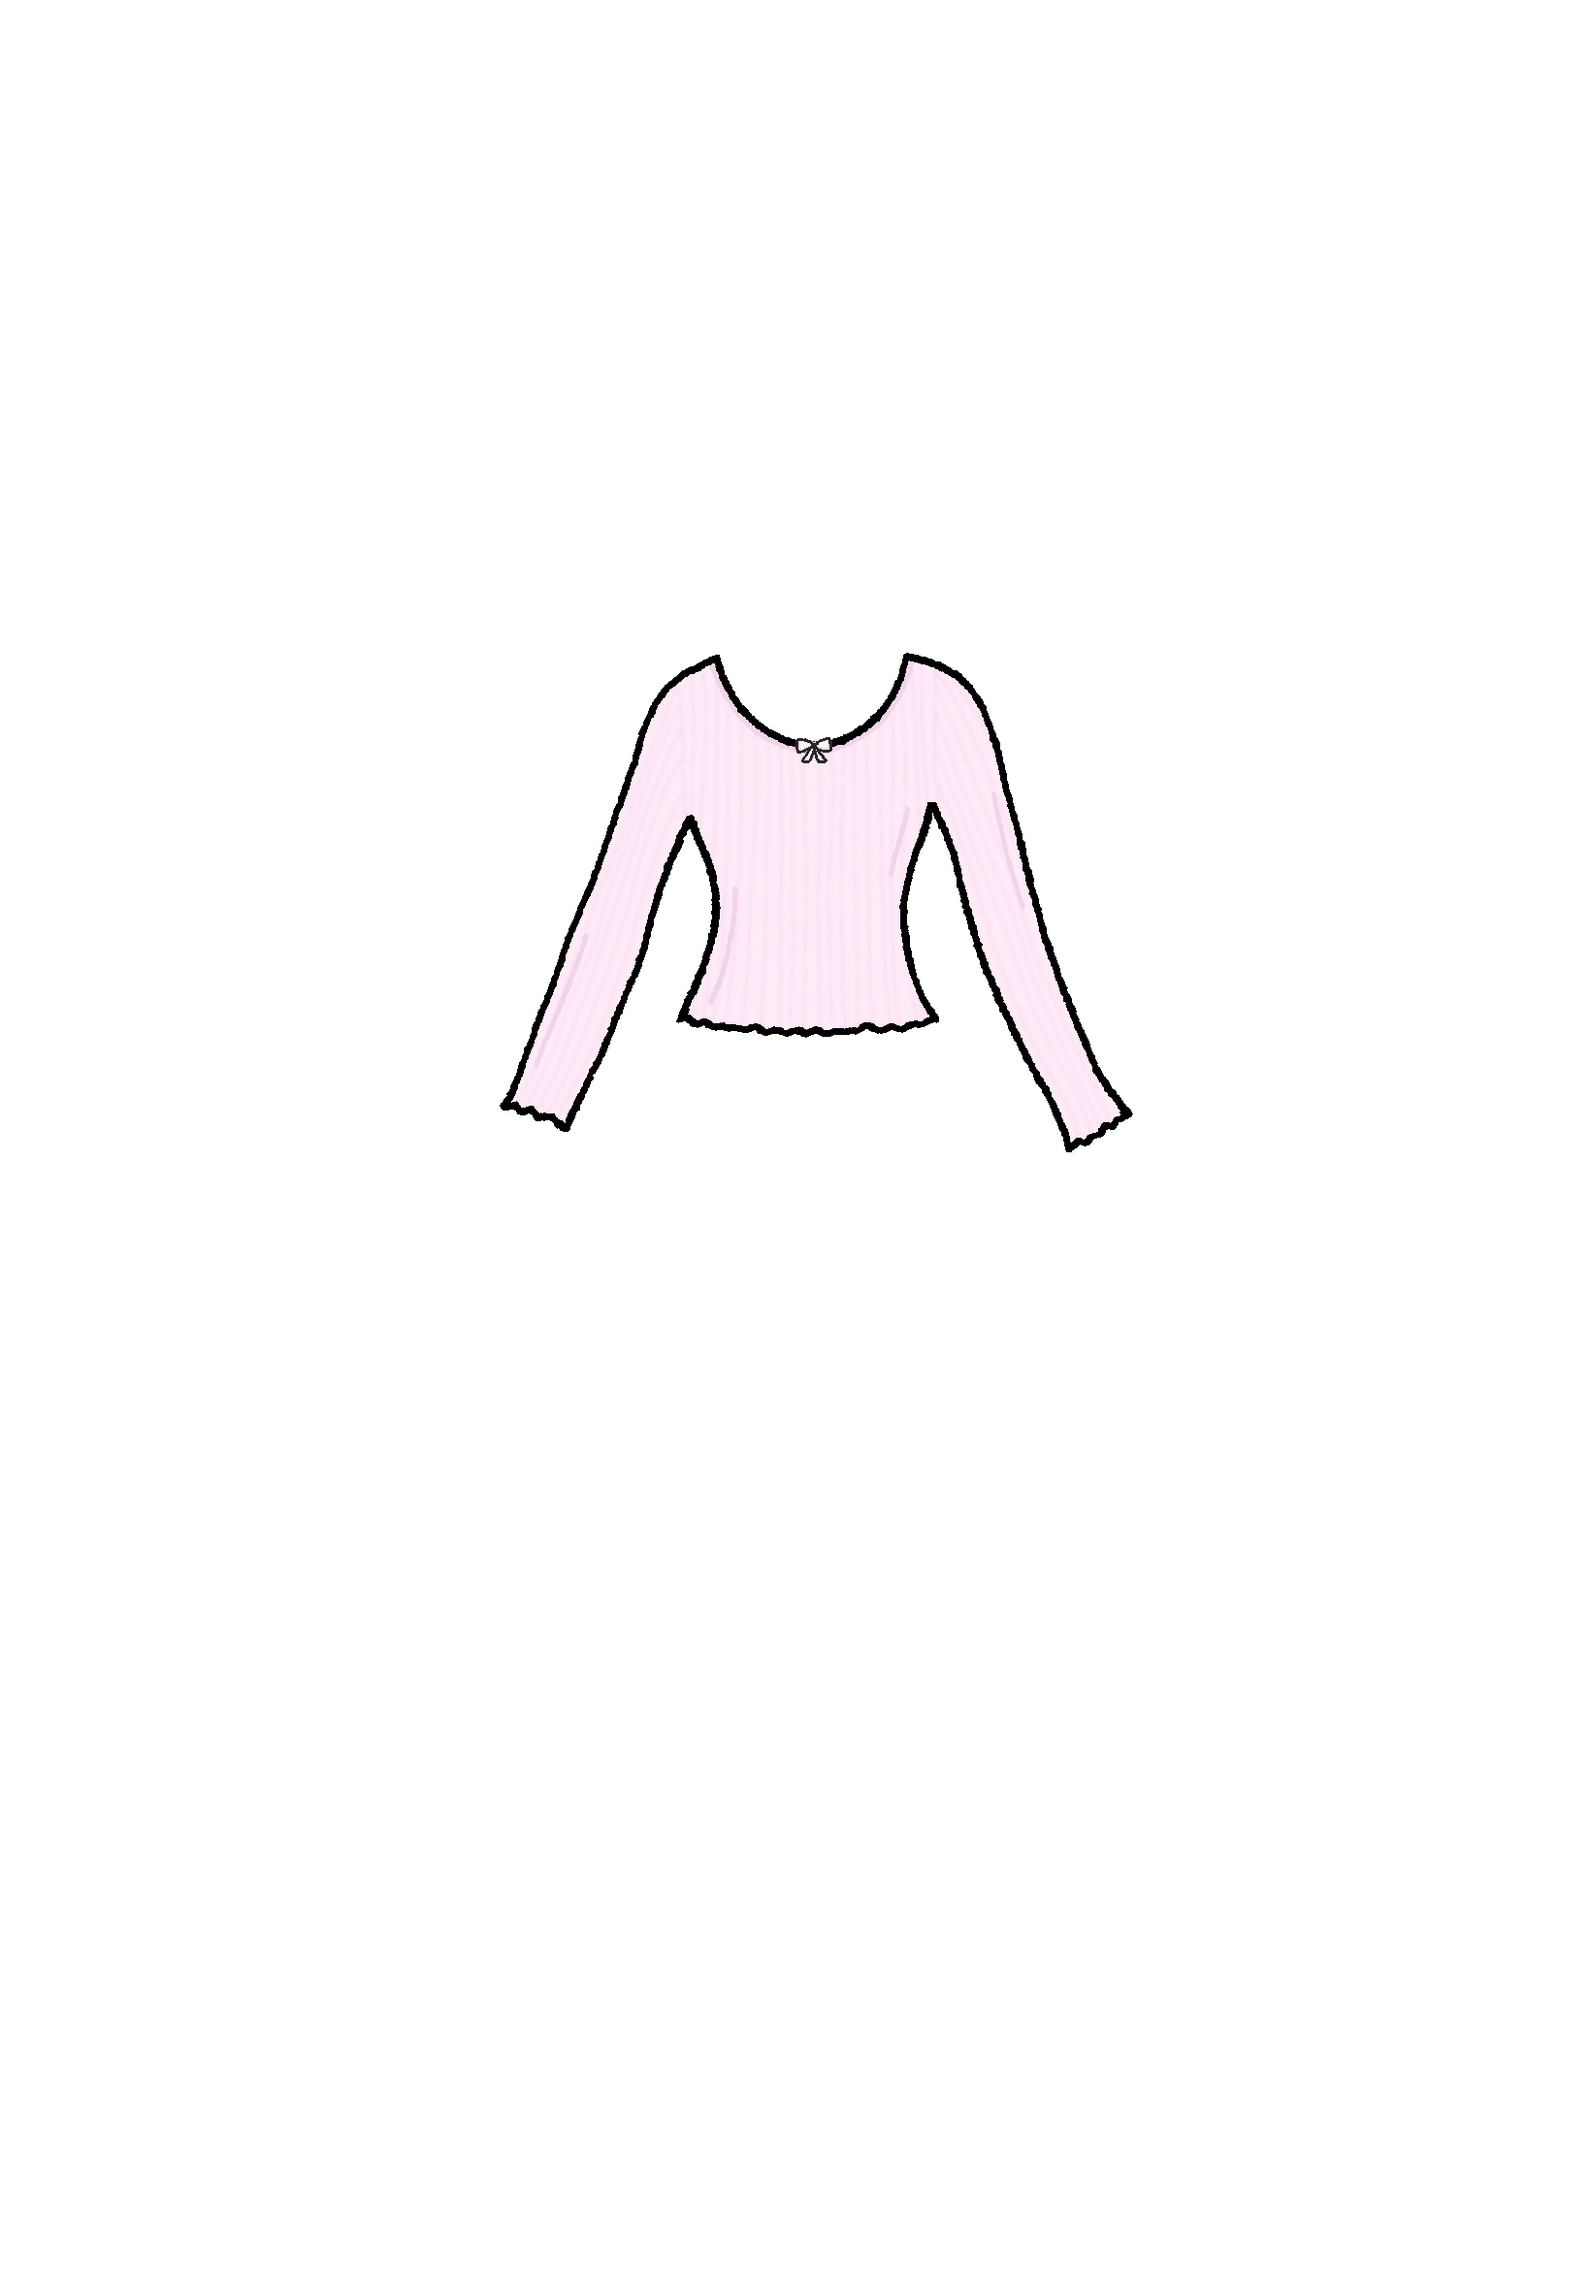
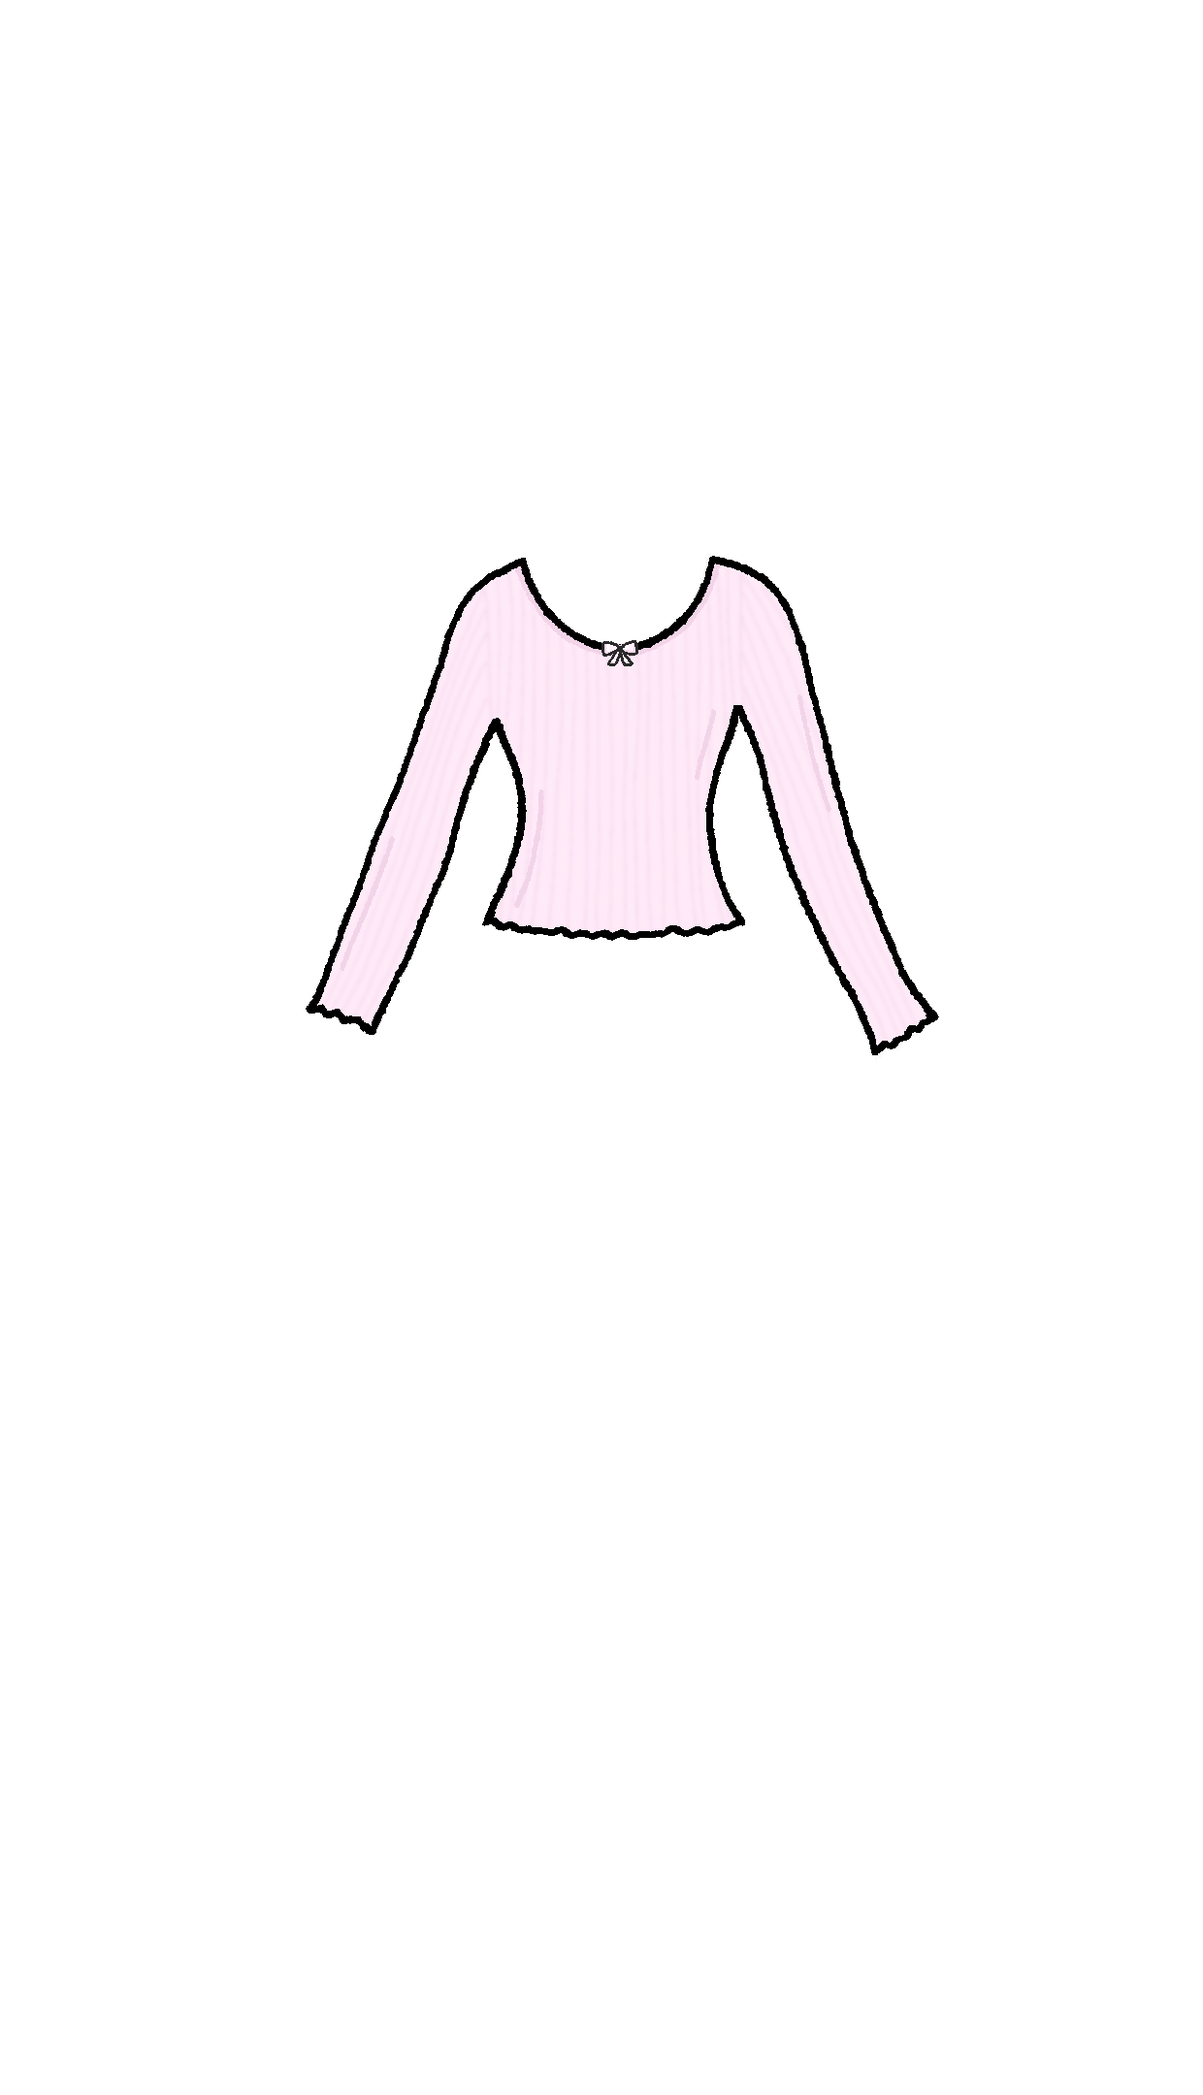
Cropped images

Changed region(s): [[0.2452, 0.2481, 0.7968, 0.4963]]

diff --git a/outfit_planner/index.html b/outfit_planner/index.html
@@ -142,7 +142,7 @@
   .mannequin-stage {
     position: relative;
     height: min(520px, calc(100vh - 220px));
-    aspect-ratio: 1389 / 2000;
+    aspect-ratio: 1500 / 2500;
     filter: drop-shadow(0 16px 32px rgba(100,60,50,0.13));
   }
 
@@ -654,11 +654,11 @@ const LAYER_MAP  = {
   Format: { top, left, width, height }  — all 0..1 fractions
 */
 const CROP = {
-  tops:    { top: 0.24, left: 0.28, width: 0.45, height: 0.30 },
-  bottoms: { top: 0.39, left: 0.28, width: 0.44, height: 0.48 },
-  shoes:   { top: 0.76, left: 0.36, width: 0.30, height: 0.18 },
-  blush:   { top: 0.12, left: 0.41, width: 0.20, height: 0.20 }, // head area
-  hair:    { top: 0.08, left: 0.21, width: 0.60, height: 0.40 }, // head + hair
+  tops:    { top: 0.23, left: 0.22, width: 0.58, height: 0.30 },
+  bottoms: { top: 0.39, left: 0.26, width: 0.48, height: 0.53 },
+  shoes:   { top: 0.765, left: 0.365, width: 0.29, height: 0.20 },
+  blush:   { top: 0.12, left: 0.39, width: 0.25, height: 0.15 }, // head area
+  hair:    { top: 0.10, left: 0.235, width: 0.55, height: 0.30 }, // head + hair
 };
 // Default crop for any unknown / future category
 const CROP_DEFAULT = { top: 0.10, left: 0.25, width: 0.50, height: 0.50 };
